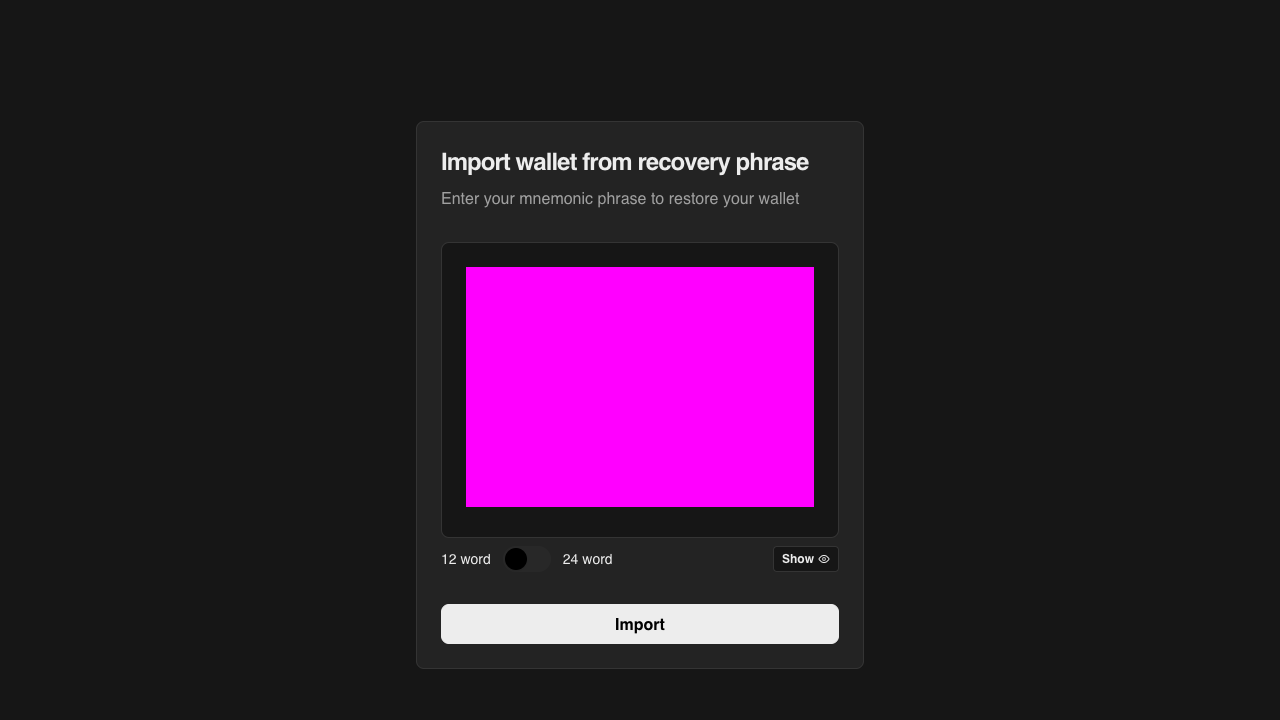
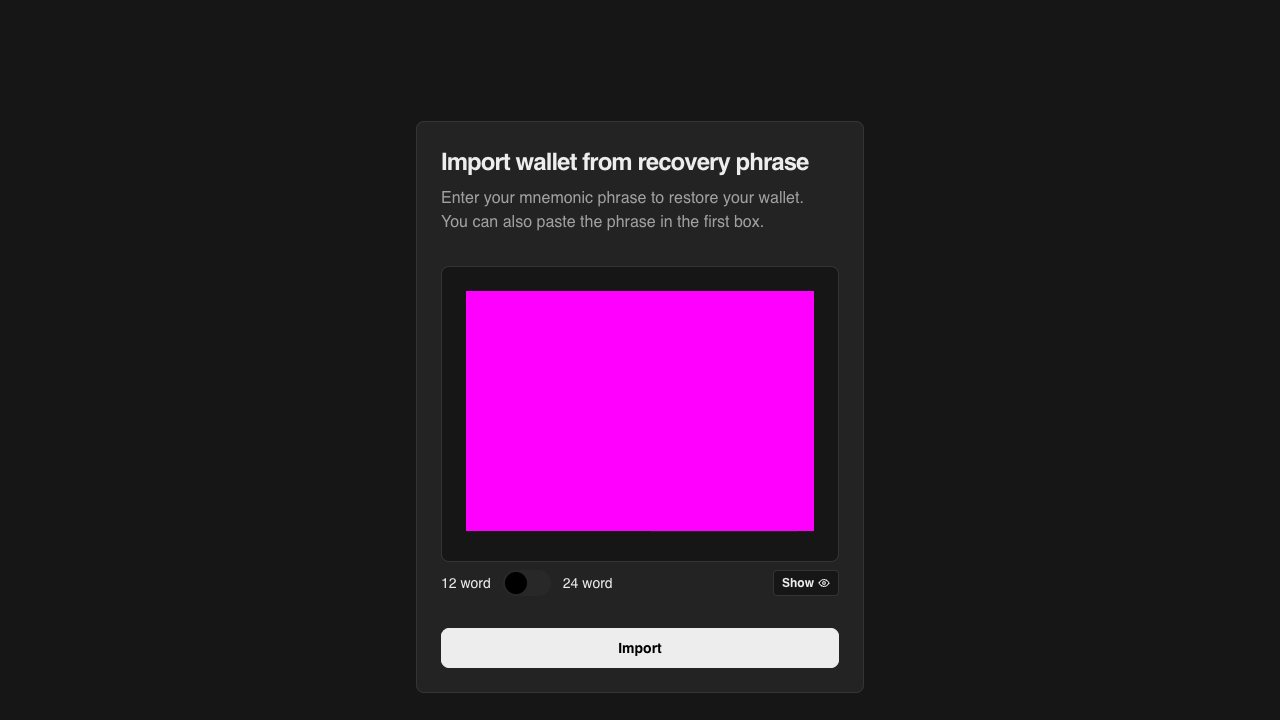
Add CTA to let users know they can paste mnemonic phrase into box (#2803)
* add subtext copy to paste mnemonic phrase

* update snapshots for import screen

Pull request: Add CTA to let users know they can paste mnemonic phrase into box
Closes #2494 

Quick-fix: Adds a new line of text to let users know they can paste their phrase on the first box 

Didn't change the first line text, as it was understood from the conversation that the intention was to only add the sub text, not the original first line

<img width="470" height="601" alt="Screenshot 2026-05-22 at 10 38 27" src="https://github.com/user-attachments/assets/b1783acb-4085-4895-b855-ac73820d2210" />

Changed region(s): [[0.3438, 0.7028, 0.6562, 0.9472], [0.3438, 0.3667, 0.6562, 0.4278], [0.3438, 0.2444, 0.625, 0.3361]]

diff --git a/extension/e2e-tests/onboarding.test.ts b/extension/e2e-tests/onboarding.test.ts
@@ -102,6 +102,9 @@ test("Import 12 word wallet", async ({ page }) => {
   await expect(
     page.getByText("Import wallet from recovery phrase"),
   ).toBeVisible();
+  await expect(
+    page.getByText("You can also paste the phrase in the first box."),
+  ).toBeVisible();
 
   for (let i = 1; i <= TEST_MNEMONIC_12_WORDS.length; i++) {
     await page
@@ -139,6 +142,9 @@ test("Import 12 word wallet by pasting", async ({ page, context }) => {
 
   await expect(
     page.getByText("Import wallet from recovery phrase"),
+  ).toBeVisible();
+  await expect(
+    page.getByText("You can also paste the phrase in the first box."),
   ).toBeVisible();
 
   await page.evaluate((argMnemonic) => {
@@ -182,6 +188,9 @@ test("Import 24 word wallet", async ({ page }) => {
 
   await expect(
     page.getByText("Import wallet from recovery phrase"),
+  ).toBeVisible();
+  await expect(
+    page.getByText("You can also paste the phrase in the first box."),
   ).toBeVisible();
   await page.locator(".RecoverAccount__phrase-toggle > label").click();
 
@@ -249,6 +258,9 @@ test("Import 24 word wallet by pasting", async ({ page, context }) => {
 
   await expect(
     page.getByText("Import wallet from recovery phrase"),
+  ).toBeVisible();
+  await expect(
+    page.getByText("You can also paste the phrase in the first box."),
   ).toBeVisible();
 
   await page.evaluate(() =>
@@ -493,6 +505,9 @@ test("Logout and import new account", async ({
 
   await expect(
     newPage.getByText("Import wallet from recovery phrase"),
+  ).toBeVisible();
+  await expect(
+    newPage.getByText("You can also paste the phrase in the first box."),
   ).toBeVisible();
 
   const TEST_WORDS = generateMnemonic({ entropyBits: 128 }).split(" ");

diff --git a/extension/src/popup/views/RecoverAccount/index.tsx b/extension/src/popup/views/RecoverAccount/index.tsx
@@ -240,7 +240,11 @@ export const RecoverAccount = () => {
                           <>
                             <Text as="p" size="md">
                               {t(
-                                "Enter your mnemonic phrase to restore your wallet",
+                                "Enter your mnemonic phrase to restore your wallet.",
+                              )}
+                              <br />
+                              {t(
+                                "You can also paste the phrase in the first box.",
                               )}
                             </Text>
                           </>

diff --git a/extension/e2e-tests/helpers/login.ts b/extension/e2e-tests/helpers/login.ts
@@ -30,6 +30,9 @@ export const login = async ({
   await expect(
     page.getByText("Import wallet from recovery phrase"),
   ).toBeVisible();
+  await expect(
+    page.getByText("You can also paste the phrase in the first box."),
+  ).toBeVisible();
 
   const TEST_WORDS = generateMnemonic({ entropyBits: 128 }).split(" ");
 

diff --git a/extension/e2e-tests/helpers/onboarding.ts b/extension/e2e-tests/helpers/onboarding.ts
@@ -33,6 +33,9 @@ export const startImportWalletFlow = async ({
   await expect(
     page.getByText("Import wallet from recovery phrase"),
   ).toBeVisible();
+  await expect(
+    page.getByText("You can also paste the phrase in the first box."),
+  ).toBeVisible();
 };
 
 /**